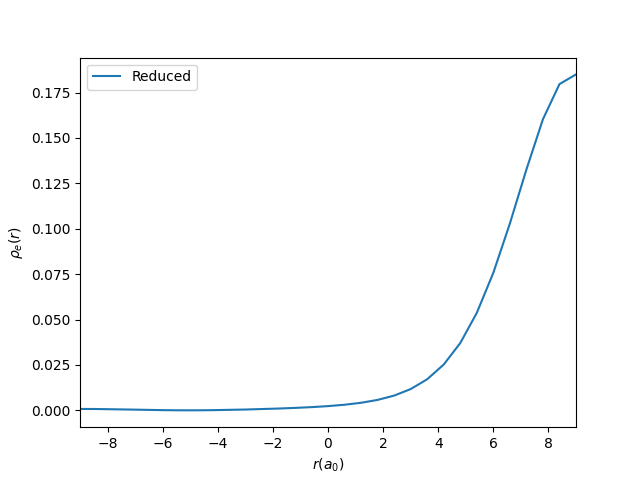
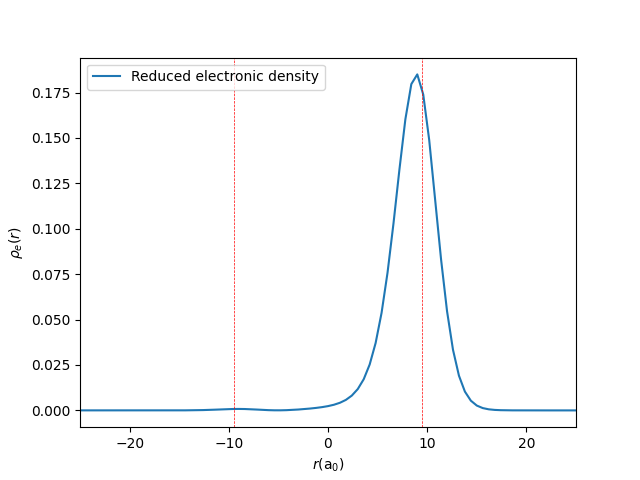
Added fixed ions as vertical dashed lines

diff --git a/simulation.py b/simulation.py
@@ -44,21 +44,24 @@ if __name__== '__main__':
     print("Deco. dynamics pops of initial wave:\n",obv.get_decoherence_dynamics(NR,Nr,dR,dr,N_states,eigenstates,wave))
 
     plt.figure()
-    plt.xlabel(r"$R(a_0)$")
+    plt.xlabel(r"$R (\rm a_0)$")
     plt.ylabel(r"$\rho_N (R)$")
-    plt.xlim([-9,9])
-    plt.plot(R_array,obv.get_reduced_nuclear_density(NR,Nr,dr,wave),label="Reduced")
-    plt.plot(R_array,np.abs(wave_packet(R_array))**2,label="Wave packet")
+    plt.xlim([-10,10])
+    plt.plot(R_array,obv.get_reduced_nuclear_density(NR,Nr,dr,wave),label="Reduced nuclear density")
+    # plt.plot(R_array,np.abs(wave_packet(R_array))**2,label="Wave packet")
+    plt.axvline(-9.5,linestyle="--",color="r",linewidth=0.5)
+    plt.axvline( 9.5,linestyle="--",color="r",linewidth=0.5)
     plt.legend()
     plt.savefig("pics/initial_nuclear_density.png")
     plt.close()
 
     plt.figure()
-    plt.xlabel(r"$r(a_0)$")
+    plt.xlabel(r"$r (\rm a_0)$")
     plt.ylabel(r"$\rho_e (r)$")
-    plt.xlim([-9,9])
-    plt.plot(r_array,obv.get_reduced_electron_density(NR,Nr,dR,wave),label="Reduced")
-    # plt.plot(r_array,np.abs(ex1)**2,label="First excited eigenstate")
+    plt.xlim([-25,25])
+    plt.plot(r_array,obv.get_reduced_electron_density(NR,Nr,dR,wave),label="Reduced electronic density")
+    plt.axvline(-9.5,linestyle="--",color="r",linewidth=0.5)
+    plt.axvline( 9.5,linestyle="--",color="r",linewidth=0.5)
     plt.legend()
     plt.savefig("pics/initial_electron_density.png")
     plt.close()
